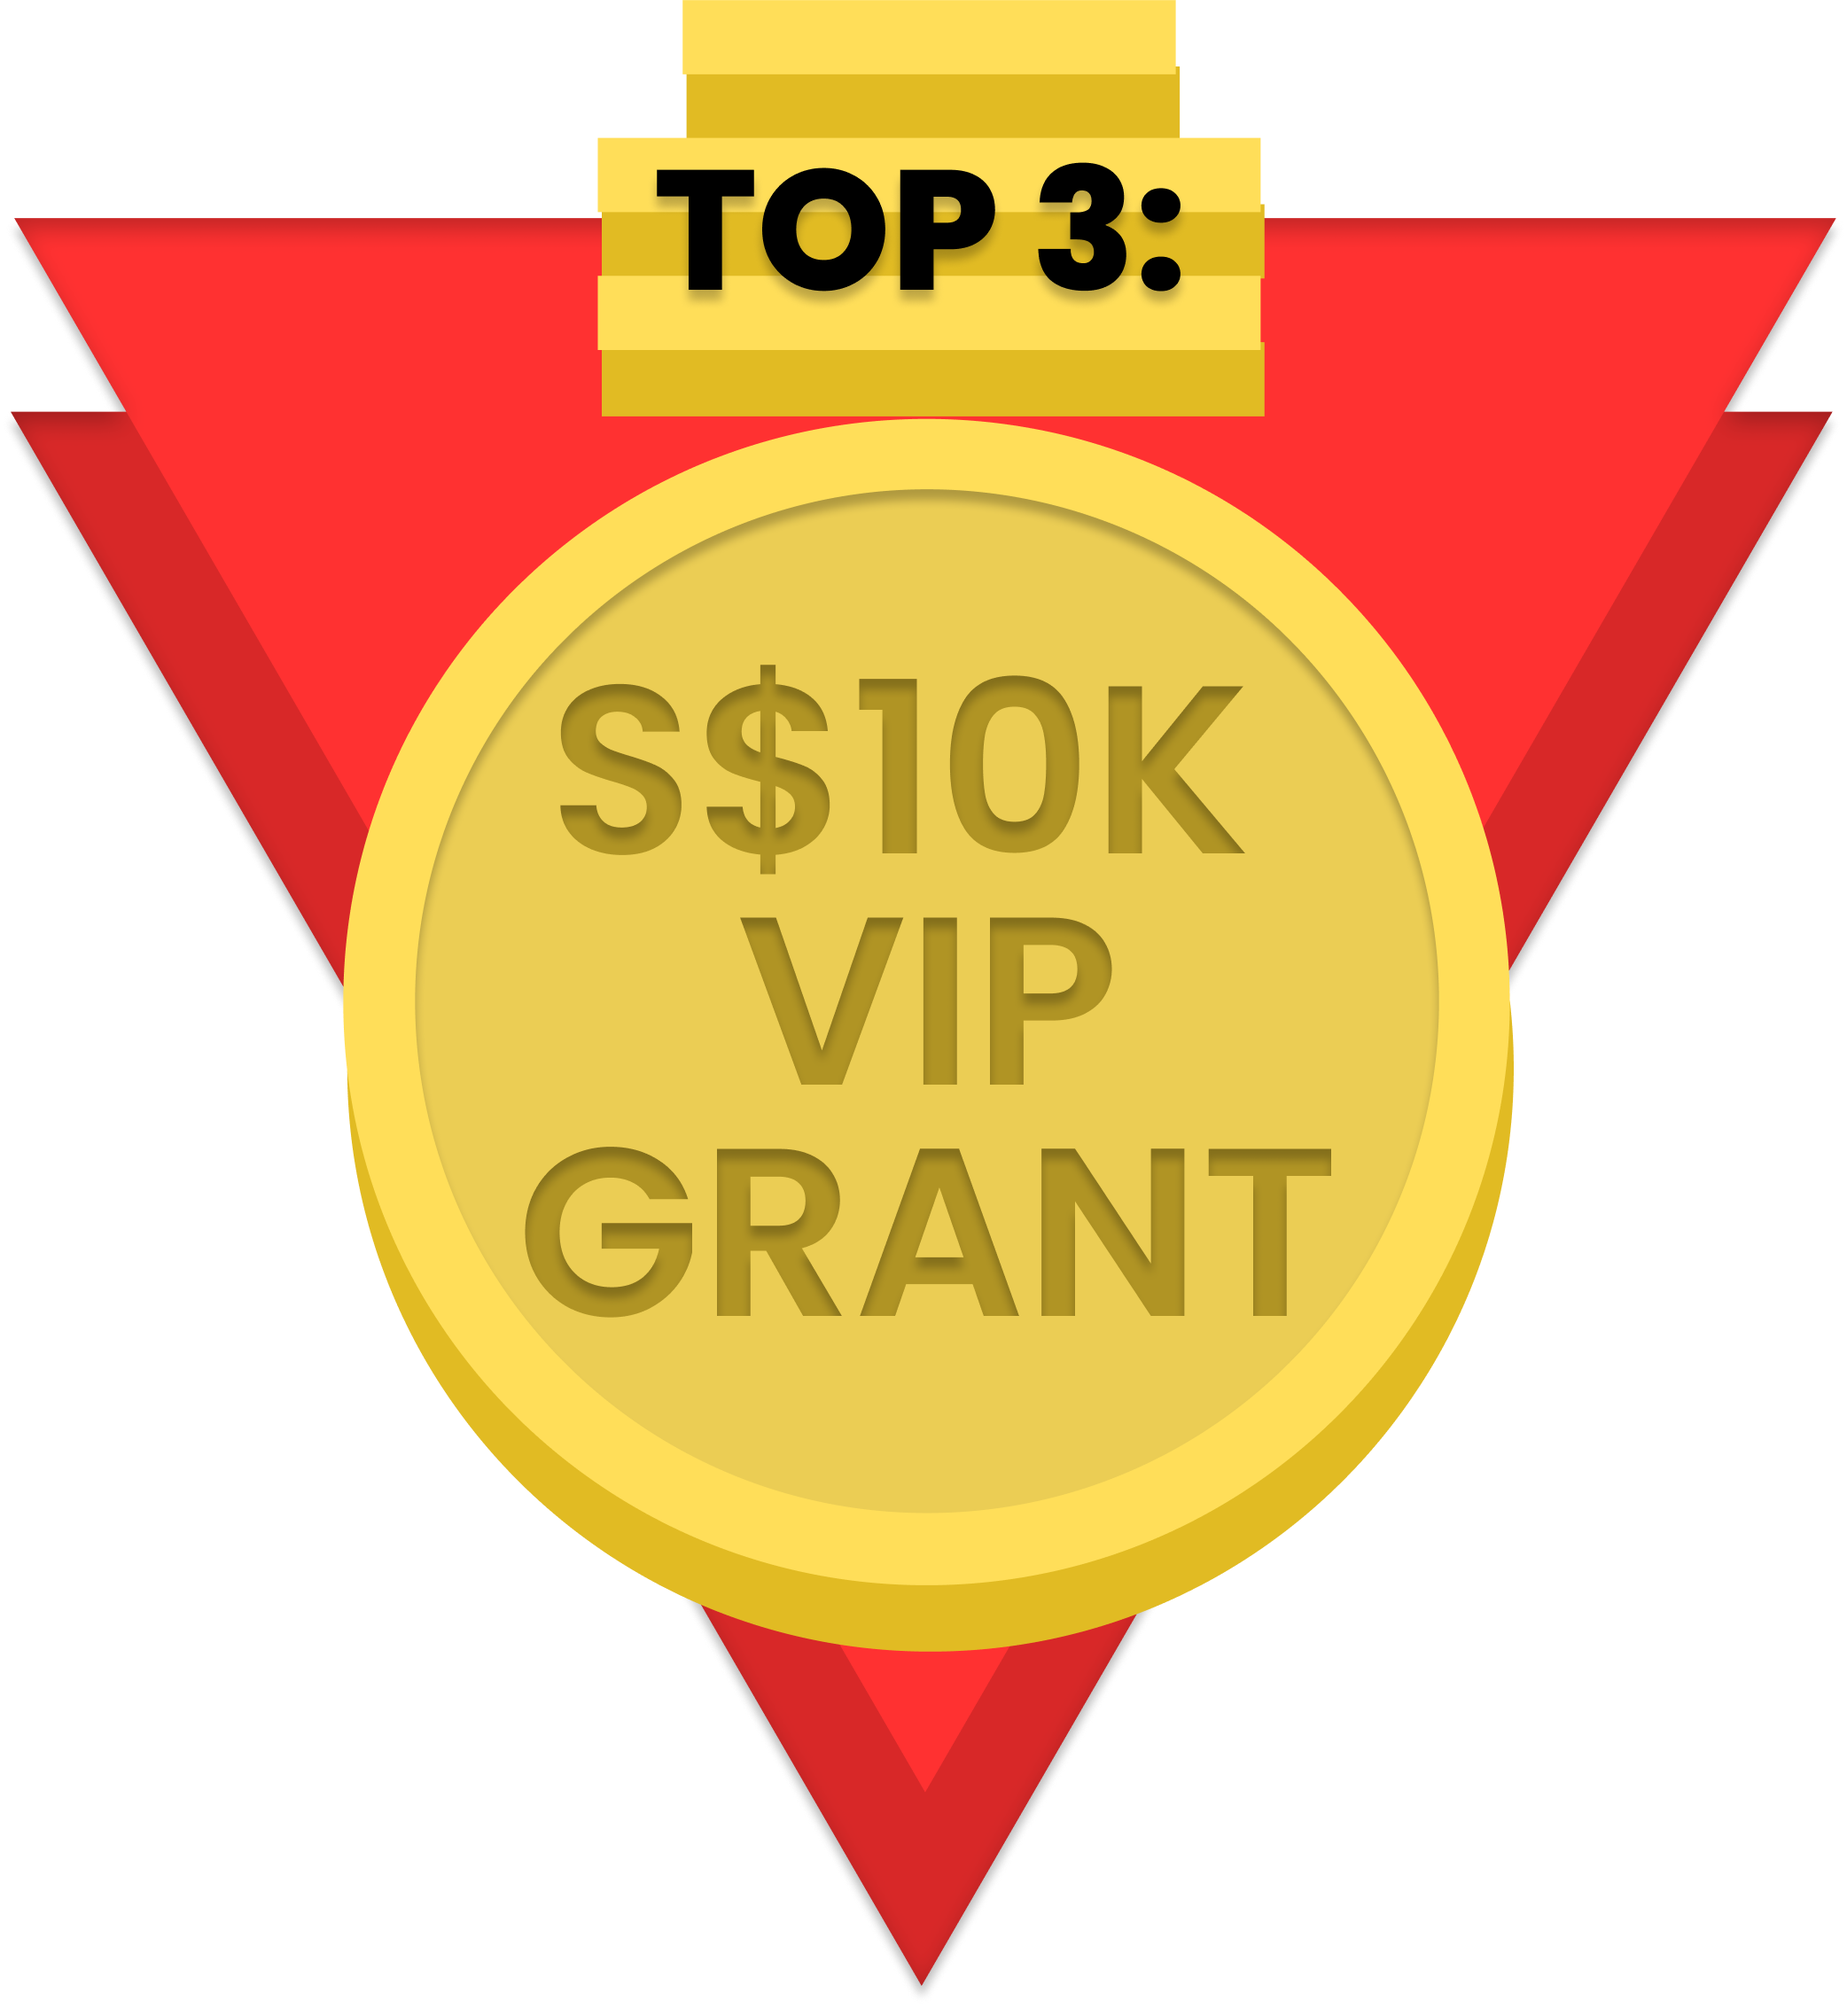
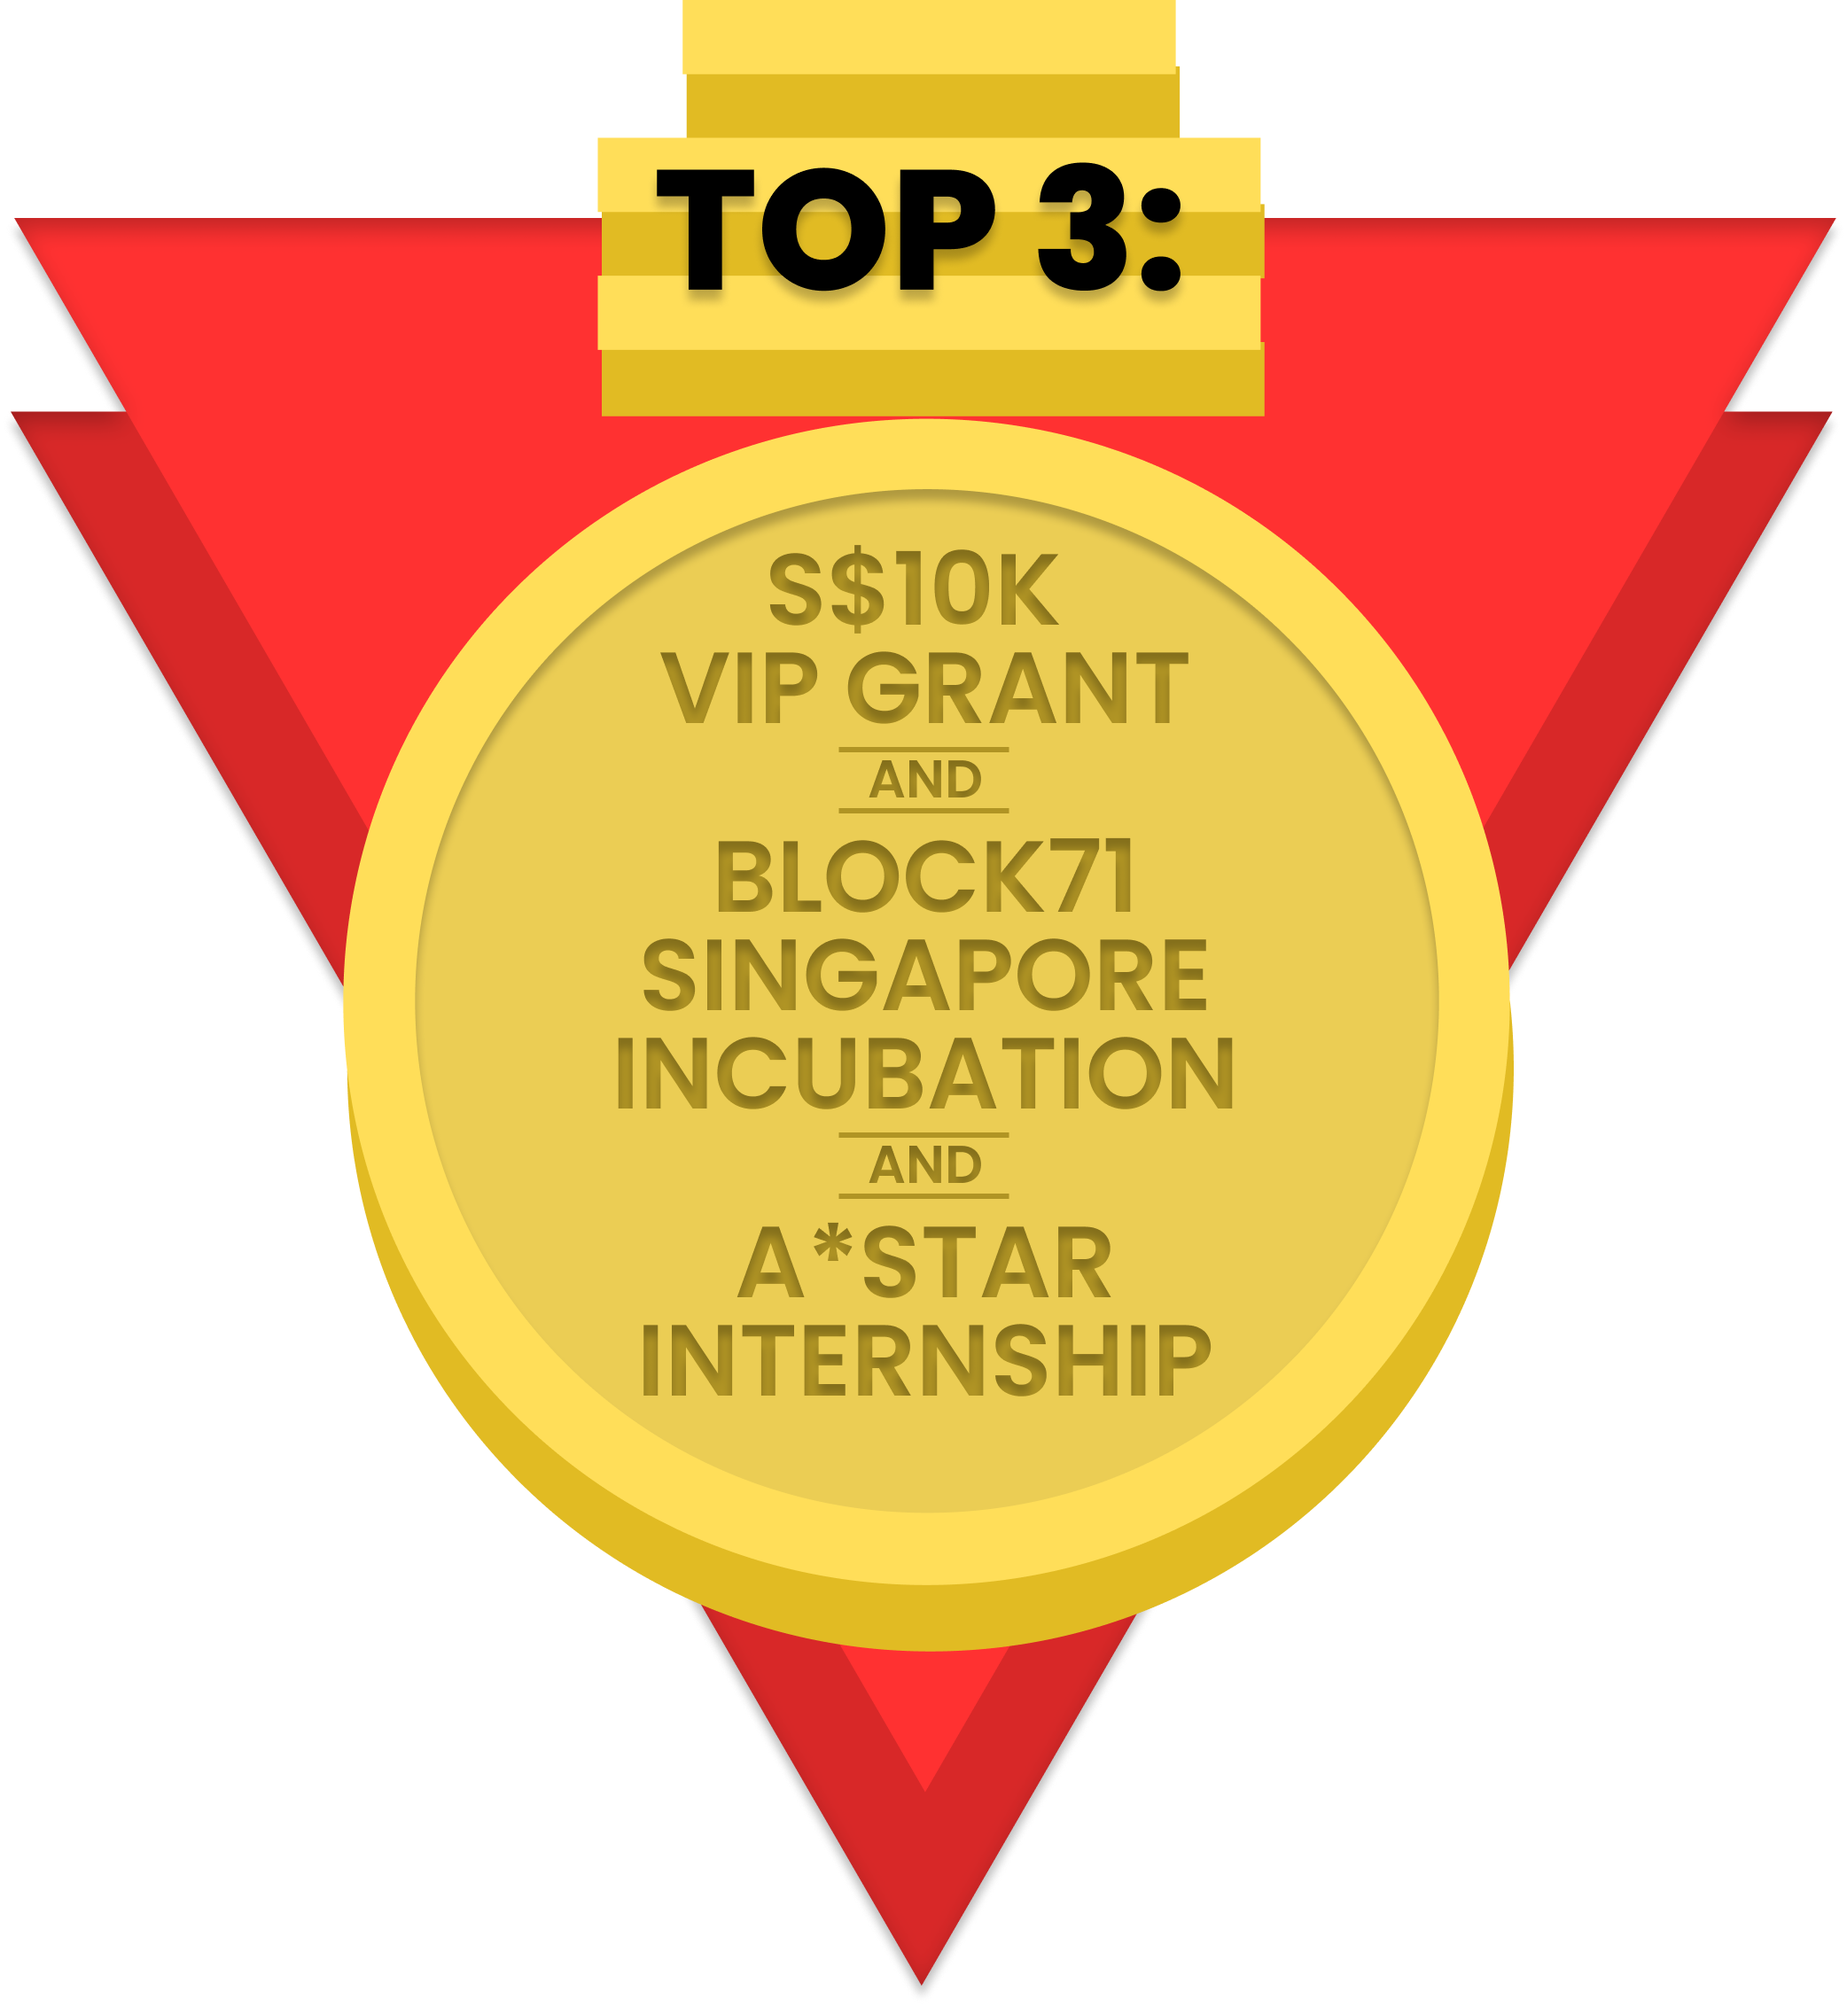
change layout

Changed region(s): [[0.2807, 0.2781, 0.7174, 0.7108]]

diff --git a/src/components/home/aboutIDEATE/ideate2024.tsx b/src/components/home/aboutIDEATE/ideate2024.tsx
@@ -1,0 +1,51 @@
+import React from "react"
+import { EventCarousel } from "./EventCarousel"
+
+const Ideate2024: React.FC = () => {
+    return (
+        <div className="flex flex-col items-center justify-center text-white text-base pt-25 px-10 sm:px-20 py-30">
+            <div className="relative w-full uppercase text-3xl sm:text-5xl md:text-6xl lg:text-7xl 2xl:text-9xl font-extrabold p-5 h-15 sm:h-45 2xl:h-80">
+                <div className="absolute ">about</div>
+                <div className="absolute top-11 left-19 sm:top-15 sm:left-29 md:top-18 md:left-33 lg:top-20 lg:left-40 2xl:top-30 2xl:left-45">ideate</div>
+            </div>
+
+            {/* ideate 2024 info */}
+            <div className="grid grid-cols-1 md:grid-cols-2 pt-10 gap-15">
+                <div className="col-span-1 text-justify text-sm sm:text-lg lg:text-xl 2xl:text-4xl"> 
+                    IDEATE is the flagship innovation makerthon jointly organised by the College of Design and Engineering
+                    (CDE) Office of Research and Technology, CDE Innovation Design and Programme Student Club (iDPSC) and 
+                    NUS Enterprise at the National University of Singapore (NUS). IDEATE is a merger of two highly successful 
+                    events, IDEATE and the Eureka Innovation Challenge, with the objective to foster innovation and entrepreneurial 
+                    spirit among NUS students by encouraging aspiring innovators to develop practical solutions for real-world 
+                    challenges. 
+                </div>
+                <div className="md:w-[30vw] justify-self-center content-center">
+                    <EventCarousel />
+                </div>
+                <div className="md:col-span-2 text-justify text-sm sm:text-lg lg:text-xl 2xl:text-4xl"> 
+                    This merger not only amplifies the reach and impact of both events but also provides a larger, 
+                    more vibrant platform for aspiring innovators to shape ideas that address the needs of the future.
+                </div>
+            </div>
+            <div className="mt-20 relative w-full uppercase text-3xl sm:text-5xl md:text-6xl lg:text-7xl 2xl:text-9xl font-extrabold p-5 h-25 sm:h-45 2xl:h-80">
+                <div className="absolute ">highlights</div>
+                <div className="absolute top-11 left-19 sm:top-15 sm:left-29 md:top-18 md:left-33 lg:top-20 lg:left-40 2xl:top-30 2xl:left-45">from 2024</div>
+            </div>
+            <div className="mt-5 w-full content-center pb-10">
+                <div className="grid grid-cols-1 md:grid-cols-2 justify-center content-center">
+                    <img
+                        src="../info/numbers_ideate.png"
+                        className="m-5 w-[50vw] md:w-[28vw] justify-self-center"
+                    />
+                    <img
+                        src="../info/numbers_eureka.png"
+                        className="m-5 w-[50vw] md:w-[28vw] justify-self-center"
+                    />
+                </div>
+            </div>
+
+        </div>
+    )
+}
+
+export default Ideate2024

diff --git a/src/components/home/prizes/CollapsedPrizes.tsx b/src/components/home/prizes/CollapsedPrizes.tsx
@@ -14,8 +14,25 @@ const Prizes: React.FC = () => {
             </div>
 
             <div>
+                {/* desktop prizes */}
                 <img src="../prizes/collapsed.png"
-                    className="my-10"/>
+                    className="my-10 hidden sm:block"/>
+
+                {/* mobile prizes */}
+                <div className="flex flex-col items-center justify-center">
+                    <img
+                        src="../prizes/top3.png"
+                        className="w-[60vw] m-5"
+                    />
+                    <img
+                        src="../prizes/all_semis.png"
+                        className="w-[50vw] m-5"
+                    />
+                    <img
+                        src="../prizes/among_semis.png"
+                        className="w-[50vw] m-5"
+                    />
+                </div>
             </div>
 
             <div className="text-sm sm:text-base md:text-lg lg:text-xl 2xl:text-3xl mt-3 md:mt-5 mb-10 ">

diff --git a/src/components/about/intro/Intro.tsx b/src/components/about/intro/Intro.tsx
@@ -4,8 +4,6 @@ import { OrganiserCarousel } from "../OrganiserCarousel"
 const Intro: React.FC = () => {
     return (
         <div className="flex flex-col items-center justify-center text-white text-base pt-20 px-15 md:px-20 lg:px-50">
-            <div className="bg-gray-100/10 h-1 w-full mb-10 sm:mb-15"/>
-
             <div className="relative text-3xl sm:text-5xl md:text-6xl lg:text-7xl 2xl:text-9xl uppercase font-extrabold w-full h-10 sm:h-20 2xl:h-50">
                 <div>who</div>
                 <div className="absolute top-7 left-8 sm:top-10 sm:left-4/20 md:top-12 md:left-3/20 lg:top-14 lg:left-1/11 2xl:top-25 text-nowrap">are we?</div>
